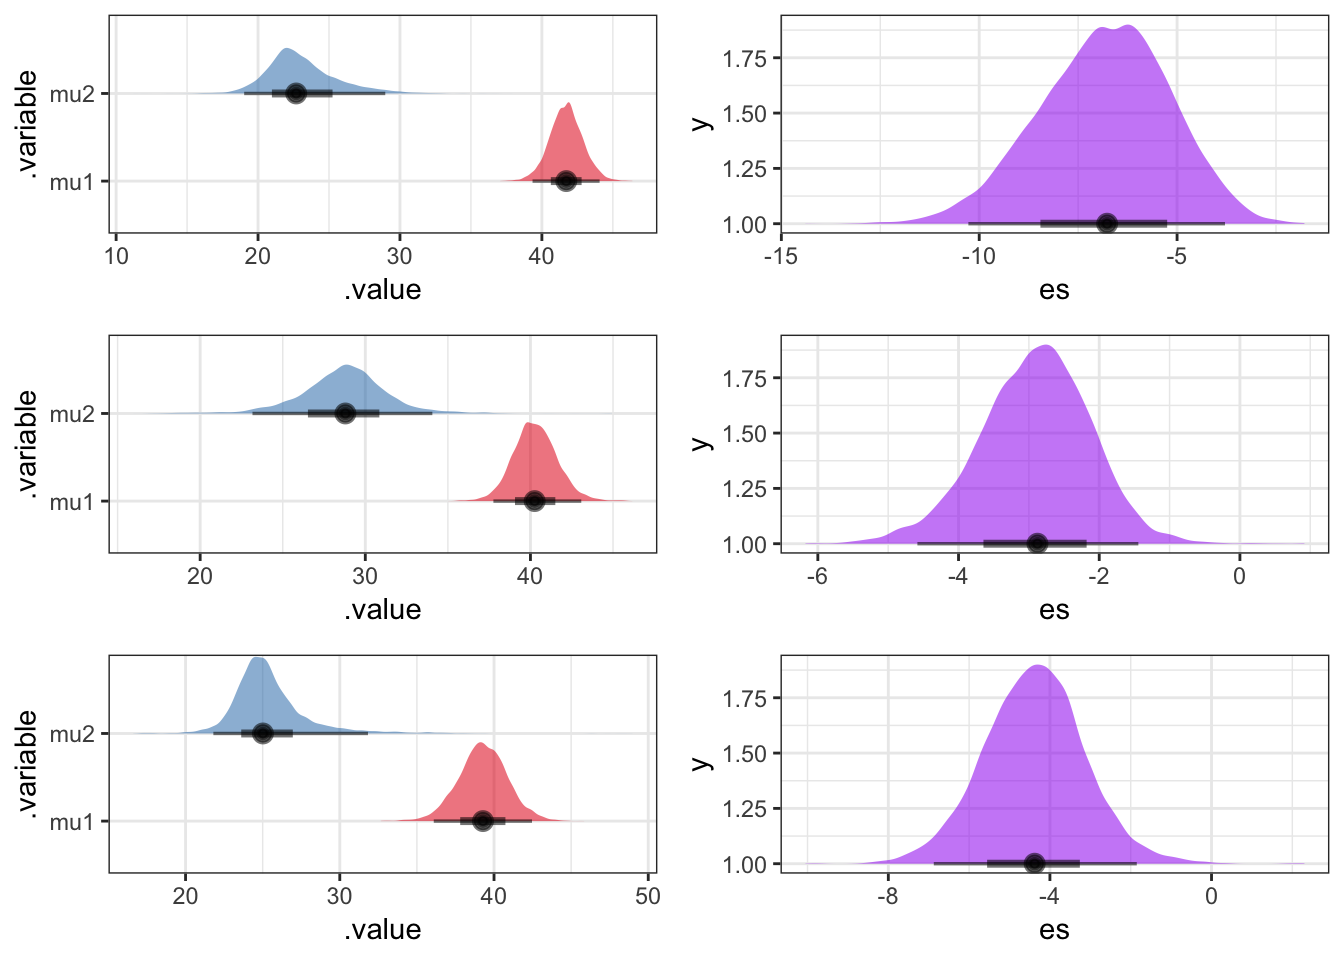
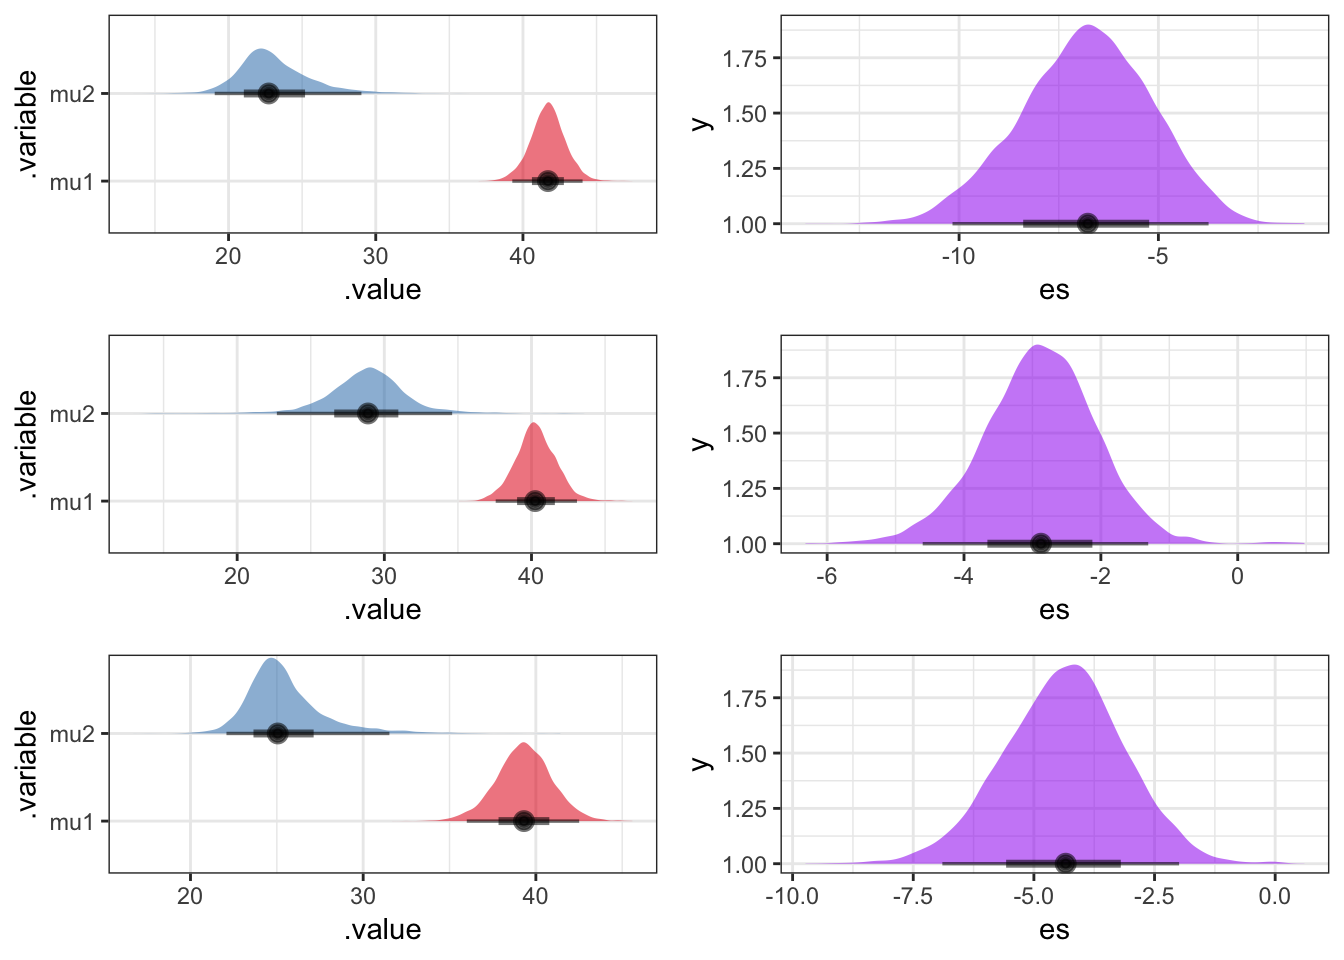
# stanアドカレ 19日目再アップ

diff --git a/content/post/CP.html b/content/post/CP.html
@@ -369,8 +369,8 @@ fit %&gt;% map(pi_table) %&gt;% bind_rows() %&gt;% mutate(subject=rep(c(5,7,9),e
 <tr class="odd">
 <td align="left">es</td>
 <td align="right">-6.77</td>
-<td align="right">-10.01</td>
-<td align="right">-3.62</td>
+<td align="right">-9.97</td>
+<td align="right">-3.58</td>
 <td align="right">0.95</td>
 <td align="left">median</td>
 <td align="left">hdi</td>
@@ -378,9 +378,9 @@ fit %&gt;% map(pi_table) %&gt;% bind_rows() %&gt;% mutate(subject=rep(c(5,7,9),e
 </tr>
 <tr class="even">
 <td align="left">mu1</td>
-<td align="right">41.72</td>
-<td align="right">39.47</td>
-<td align="right">44.17</td>
+<td align="right">41.70</td>
+<td align="right">39.29</td>
+<td align="right">44.05</td>
 <td align="right">0.95</td>
 <td align="left">median</td>
 <td align="left">hdi</td>
@@ -388,9 +388,9 @@ fit %&gt;% map(pi_table) %&gt;% bind_rows() %&gt;% mutate(subject=rep(c(5,7,9),e
 </tr>
 <tr class="odd">
 <td align="left">mu2</td>
-<td align="right">22.69</td>
-<td align="right">18.68</td>
-<td align="right">28.48</td>
+<td align="right">22.73</td>
+<td align="right">18.74</td>
+<td align="right">28.50</td>
 <td align="right">0.95</td>
 <td align="left">median</td>
 <td align="left">hdi</td>
@@ -399,7 +399,7 @@ fit %&gt;% map(pi_table) %&gt;% bind_rows() %&gt;% mutate(subject=rep(c(5,7,9),e
 <tr class="even">
 <td align="left">rho</td>
 <td align="right">0.61</td>
-<td align="right">0.06</td>
+<td align="right">0.08</td>
 <td align="right">1.00</td>
 <td align="right">0.95</td>
 <td align="left">median</td>
@@ -408,8 +408,8 @@ fit %&gt;% map(pi_table) %&gt;% bind_rows() %&gt;% mutate(subject=rep(c(5,7,9),e
 </tr>
 <tr class="odd">
 <td align="left">sigma</td>
-<td align="right">2.76</td>
-<td align="right">1.76</td>
+<td align="right">2.75</td>
+<td align="right">1.80</td>
 <td align="right">4.08</td>
 <td align="right">0.95</td>
 <td align="left">median</td>
@@ -419,8 +419,8 @@ fit %&gt;% map(pi_table) %&gt;% bind_rows() %&gt;% mutate(subject=rep(c(5,7,9),e
 <tr class="even">
 <td align="left">es</td>
 <td align="right">-2.88</td>
-<td align="right">-4.49</td>
-<td align="right">-1.37</td>
+<td align="right">-4.60</td>
+<td align="right">-1.31</td>
 <td align="right">0.95</td>
 <td align="left">median</td>
 <td align="left">hdi</td>
@@ -429,8 +429,8 @@ fit %&gt;% map(pi_table) %&gt;% bind_rows() %&gt;% mutate(subject=rep(c(5,7,9),e
 <tr class="odd">
 <td align="left">mu1</td>
 <td align="right">40.25</td>
-<td align="right">37.60</td>
-<td align="right">42.90</td>
+<td align="right">37.42</td>
+<td align="right">42.85</td>
 <td align="right">0.95</td>
 <td align="left">median</td>
 <td align="left">hdi</td>
@@ -438,9 +438,9 @@ fit %&gt;% map(pi_table) %&gt;% bind_rows() %&gt;% mutate(subject=rep(c(5,7,9),e
 </tr>
 <tr class="even">
 <td align="left">mu2</td>
-<td align="right">28.79</td>
-<td align="right">23.12</td>
-<td align="right">34.00</td>
+<td align="right">28.89</td>
+<td align="right">22.88</td>
+<td align="right">34.71</td>
 <td align="right">0.95</td>
 <td align="left">median</td>
 <td align="left">hdi</td>
@@ -448,9 +448,9 @@ fit %&gt;% map(pi_table) %&gt;% bind_rows() %&gt;% mutate(subject=rep(c(5,7,9),e
 </tr>
 <tr class="odd">
 <td align="left">rho</td>
-<td align="right">-0.08</td>
+<td align="right">-0.11</td>
 <td align="right">-1.00</td>
-<td align="right">0.78</td>
+<td align="right">0.80</td>
 <td align="right">0.95</td>
 <td align="left">median</td>
 <td align="left">hdi</td>
@@ -458,8 +458,8 @@ fit %&gt;% map(pi_table) %&gt;% bind_rows() %&gt;% mutate(subject=rep(c(5,7,9),e
 </tr>
 <tr class="even">
 <td align="left">sigma</td>
-<td align="right">4.09</td>
-<td align="right">3.13</td>
+<td align="right">4.10</td>
+<td align="right">3.12</td>
 <td align="right">5.00</td>
 <td align="right">0.95</td>
 <td align="left">median</td>
@@ -468,9 +468,9 @@ fit %&gt;% map(pi_table) %&gt;% bind_rows() %&gt;% mutate(subject=rep(c(5,7,9),e
 </tr>
 <tr class="odd">
 <td align="left">es</td>
-<td align="right">-4.38</td>
-<td align="right">-7.01</td>
-<td align="right">-2.01</td>
+<td align="right">-4.34</td>
+<td align="right">-6.87</td>
+<td align="right">-1.97</td>
 <td align="right">0.95</td>
 <td align="left">median</td>
 <td align="left">hdi</td>
@@ -478,9 +478,9 @@ fit %&gt;% map(pi_table) %&gt;% bind_rows() %&gt;% mutate(subject=rep(c(5,7,9),e
 </tr>
 <tr class="even">
 <td align="left">mu1</td>
-<td align="right">39.28</td>
-<td align="right">36.25</td>
-<td align="right">42.59</td>
+<td align="right">39.31</td>
+<td align="right">35.91</td>
+<td align="right">42.41</td>
 <td align="right">0.95</td>
 <td align="left">median</td>
 <td align="left">hdi</td>
@@ -488,9 +488,9 @@ fit %&gt;% map(pi_table) %&gt;% bind_rows() %&gt;% mutate(subject=rep(c(5,7,9),e
 </tr>
 <tr class="odd">
 <td align="left">mu2</td>
-<td align="right">25.02</td>
-<td align="right">20.98</td>
-<td align="right">30.56</td>
+<td align="right">25.05</td>
+<td align="right">21.77</td>
+<td align="right">30.81</td>
 <td align="right">0.95</td>
 <td align="left">median</td>
 <td align="left">hdi</td>
@@ -499,8 +499,8 @@ fit %&gt;% map(pi_table) %&gt;% bind_rows() %&gt;% mutate(subject=rep(c(5,7,9),e
 <tr class="even">
 <td align="left">rho</td>
 <td align="right">0.28</td>
-<td align="right">-0.37</td>
-<td align="right">1.00</td>
+<td align="right">-0.41</td>
+<td align="right">0.98</td>
 <td align="right">0.95</td>
 <td align="left">median</td>
 <td align="left">hdi</td>
@@ -508,9 +508,9 @@ fit %&gt;% map(pi_table) %&gt;% bind_rows() %&gt;% mutate(subject=rep(c(5,7,9),e
 </tr>
 <tr class="odd">
 <td align="left">sigma</td>
-<td align="right">3.23</td>
-<td align="right">2.13</td>
-<td align="right">4.65</td>
+<td align="right">3.24</td>
+<td align="right">2.14</td>
+<td align="right">4.66</td>
 <td align="right">0.95</td>
 <td align="left">median</td>
 <td align="left">hdi</td>

diff --git a/docs/2018/12/19/tidybayes/index.html b/docs/2018/12/19/tidybayes/index.html
@@ -429,8 +429,8 @@ fit %&gt;% map(pi_table) %&gt;% bind_rows() %&gt;% mutate(subject=rep(c(5,7,9),e
 <tr class="odd">
 <td align="left">es</td>
 <td align="right">-6.77</td>
-<td align="right">-10.01</td>
-<td align="right">-3.62</td>
+<td align="right">-9.97</td>
+<td align="right">-3.58</td>
 <td align="right">0.95</td>
 <td align="left">median</td>
 <td align="left">hdi</td>
@@ -438,9 +438,9 @@ fit %&gt;% map(pi_table) %&gt;% bind_rows() %&gt;% mutate(subject=rep(c(5,7,9),e
 </tr>
 <tr class="even">
 <td align="left">mu1</td>
-<td align="right">41.72</td>
-<td align="right">39.47</td>
-<td align="right">44.17</td>
+<td align="right">41.70</td>
+<td align="right">39.29</td>
+<td align="right">44.05</td>
 <td align="right">0.95</td>
 <td align="left">median</td>
 <td align="left">hdi</td>
@@ -448,9 +448,9 @@ fit %&gt;% map(pi_table) %&gt;% bind_rows() %&gt;% mutate(subject=rep(c(5,7,9),e
 </tr>
 <tr class="odd">
 <td align="left">mu2</td>
-<td align="right">22.69</td>
-<td align="right">18.68</td>
-<td align="right">28.48</td>
+<td align="right">22.73</td>
+<td align="right">18.74</td>
+<td align="right">28.50</td>
 <td align="right">0.95</td>
 <td align="left">median</td>
 <td align="left">hdi</td>
@@ -459,7 +459,7 @@ fit %&gt;% map(pi_table) %&gt;% bind_rows() %&gt;% mutate(subject=rep(c(5,7,9),e
 <tr class="even">
 <td align="left">rho</td>
 <td align="right">0.61</td>
-<td align="right">0.06</td>
+<td align="right">0.08</td>
 <td align="right">1.00</td>
 <td align="right">0.95</td>
 <td align="left">median</td>
@@ -468,8 +468,8 @@ fit %&gt;% map(pi_table) %&gt;% bind_rows() %&gt;% mutate(subject=rep(c(5,7,9),e
 </tr>
 <tr class="odd">
 <td align="left">sigma</td>
-<td align="right">2.76</td>
-<td align="right">1.76</td>
+<td align="right">2.75</td>
+<td align="right">1.80</td>
 <td align="right">4.08</td>
 <td align="right">0.95</td>
 <td align="left">median</td>
@@ -479,8 +479,8 @@ fit %&gt;% map(pi_table) %&gt;% bind_rows() %&gt;% mutate(subject=rep(c(5,7,9),e
 <tr class="even">
 <td align="left">es</td>
 <td align="right">-2.88</td>
-<td align="right">-4.49</td>
-<td align="right">-1.37</td>
+<td align="right">-4.60</td>
+<td align="right">-1.31</td>
 <td align="right">0.95</td>
 <td align="left">median</td>
 <td align="left">hdi</td>
@@ -489,8 +489,8 @@ fit %&gt;% map(pi_table) %&gt;% bind_rows() %&gt;% mutate(subject=rep(c(5,7,9),e
 <tr class="odd">
 <td align="left">mu1</td>
 <td align="right">40.25</td>
-<td align="right">37.60</td>
-<td align="right">42.90</td>
+<td align="right">37.42</td>
+<td align="right">42.85</td>
 <td align="right">0.95</td>
 <td align="left">median</td>
 <td align="left">hdi</td>
@@ -498,9 +498,9 @@ fit %&gt;% map(pi_table) %&gt;% bind_rows() %&gt;% mutate(subject=rep(c(5,7,9),e
 </tr>
 <tr class="even">
 <td align="left">mu2</td>
-<td align="right">28.79</td>
-<td align="right">23.12</td>
-<td align="right">34.00</td>
+<td align="right">28.89</td>
+<td align="right">22.88</td>
+<td align="right">34.71</td>
 <td align="right">0.95</td>
 <td align="left">median</td>
 <td align="left">hdi</td>
@@ -508,9 +508,9 @@ fit %&gt;% map(pi_table) %&gt;% bind_rows() %&gt;% mutate(subject=rep(c(5,7,9),e
 </tr>
 <tr class="odd">
 <td align="left">rho</td>
-<td align="right">-0.08</td>
+<td align="right">-0.11</td>
 <td align="right">-1.00</td>
-<td align="right">0.78</td>
+<td align="right">0.80</td>
 <td align="right">0.95</td>
 <td align="left">median</td>
 <td align="left">hdi</td>
@@ -518,8 +518,8 @@ fit %&gt;% map(pi_table) %&gt;% bind_rows() %&gt;% mutate(subject=rep(c(5,7,9),e
 </tr>
 <tr class="even">
 <td align="left">sigma</td>
-<td align="right">4.09</td>
-<td align="right">3.13</td>
+<td align="right">4.10</td>
+<td align="right">3.12</td>
 <td align="right">5.00</td>
 <td align="right">0.95</td>
 <td align="left">median</td>
@@ -528,9 +528,9 @@ fit %&gt;% map(pi_table) %&gt;% bind_rows() %&gt;% mutate(subject=rep(c(5,7,9),e
 </tr>
 <tr class="odd">
 <td align="left">es</td>
-<td align="right">-4.38</td>
-<td align="right">-7.01</td>
-<td align="right">-2.01</td>
+<td align="right">-4.34</td>
+<td align="right">-6.87</td>
+<td align="right">-1.97</td>
 <td align="right">0.95</td>
 <td align="left">median</td>
 <td align="left">hdi</td>
@@ -538,9 +538,9 @@ fit %&gt;% map(pi_table) %&gt;% bind_rows() %&gt;% mutate(subject=rep(c(5,7,9),e
 </tr>
 <tr class="even">
 <td align="left">mu1</td>
-<td align="right">39.28</td>
-<td align="right">36.25</td>
-<td align="right">42.59</td>
+<td align="right">39.31</td>
+<td align="right">35.91</td>
+<td align="right">42.41</td>
 <td align="right">0.95</td>
 <td align="left">median</td>
 <td align="left">hdi</td>
@@ -548,9 +548,9 @@ fit %&gt;% map(pi_table) %&gt;% bind_rows() %&gt;% mutate(subject=rep(c(5,7,9),e
 </tr>
 <tr class="odd">
 <td align="left">mu2</td>
-<td align="right">25.02</td>
-<td align="right">20.98</td>
-<td align="right">30.56</td>
+<td align="right">25.05</td>
+<td align="right">21.77</td>
+<td align="right">30.81</td>
 <td align="right">0.95</td>
 <td align="left">median</td>
 <td align="left">hdi</td>
@@ -559,8 +559,8 @@ fit %&gt;% map(pi_table) %&gt;% bind_rows() %&gt;% mutate(subject=rep(c(5,7,9),e
 <tr class="even">
 <td align="left">rho</td>
 <td align="right">0.28</td>
-<td align="right">-0.37</td>
-<td align="right">1.00</td>
+<td align="right">-0.41</td>
+<td align="right">0.98</td>
 <td align="right">0.95</td>
 <td align="left">median</td>
 <td align="left">hdi</td>
@@ -568,9 +568,9 @@ fit %&gt;% map(pi_table) %&gt;% bind_rows() %&gt;% mutate(subject=rep(c(5,7,9),e
 </tr>
 <tr class="odd">
 <td align="left">sigma</td>
-<td align="right">3.23</td>
-<td align="right">2.13</td>
-<td align="right">4.65</td>
+<td align="right">3.24</td>
+<td align="right">2.14</td>
+<td align="right">4.66</td>
 <td align="right">0.95</td>
 <td align="left">median</td>
 <td align="left">hdi</td>
